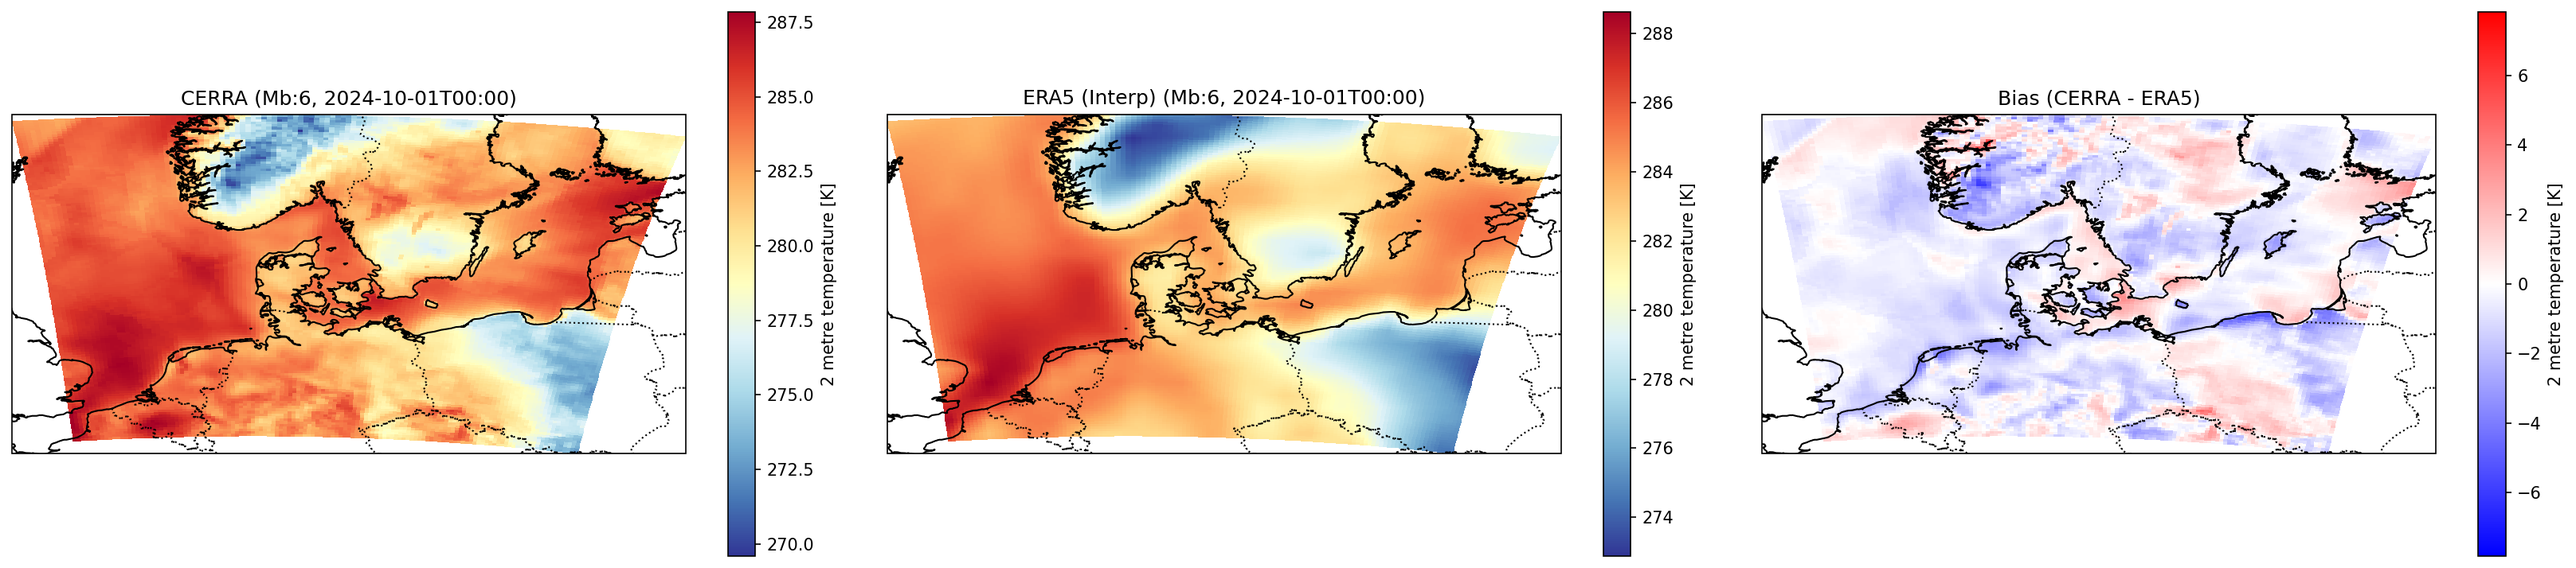
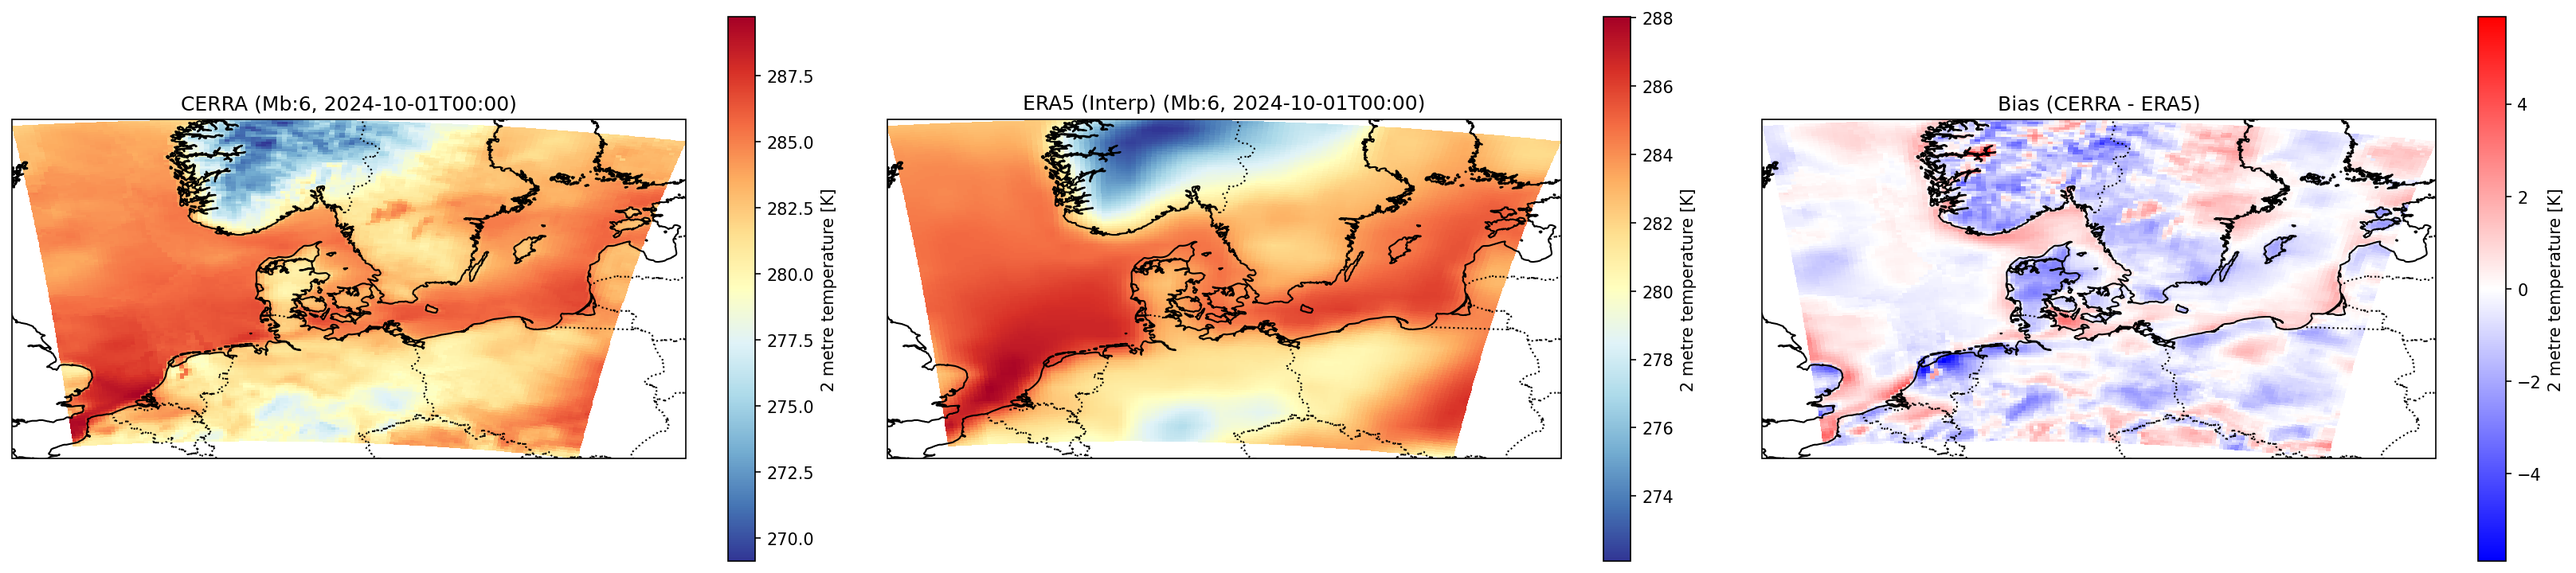
update .ignore

diff --git a/data_prep_cerra/transform/main.py b/data_prep_cerra/transform/main.py
@@ -16,8 +16,8 @@ if __name__ == "__main__":
     OUTPUT_DIR = '../output_plots'
     ZARR_PATH = '../output_data.zarr'
 
-    SAVE_ERA5_MEMBERS = True   
-    SAVE_CERRA_MEMBERS = True 
+    SAVE_ERA5_MEMBERS = False   
+    SAVE_CERRA_MEMBERS = False 
 
     if not os.path.exists(OUTPUT_DIR):
         os.makedirs(OUTPUT_DIR)
